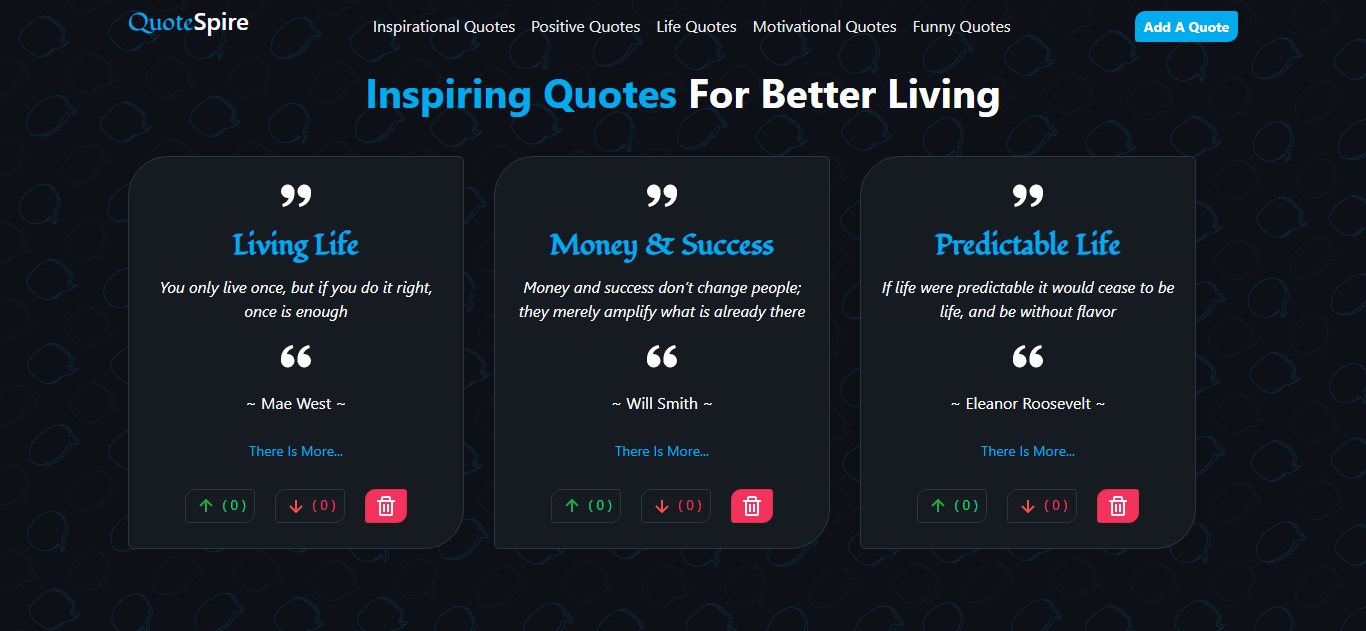
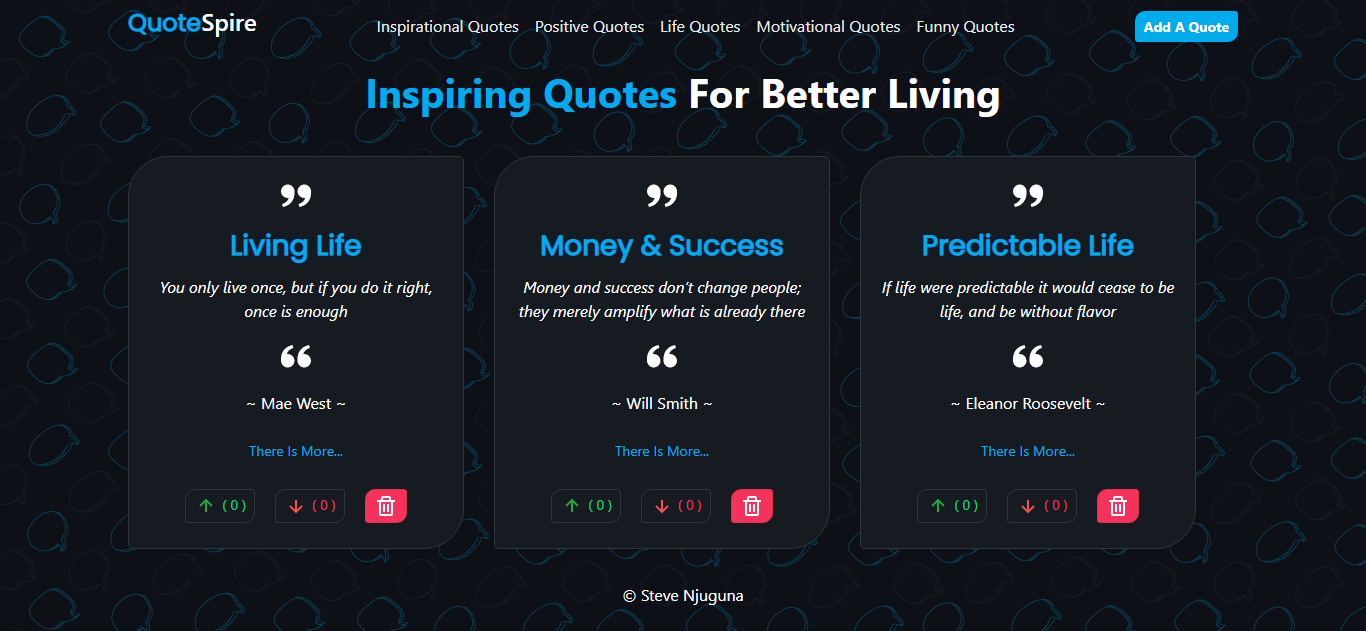
Changed screenshot image

diff --git a/src/index.html b/src/index.html
@@ -6,7 +6,7 @@
   <base href="/">
   <meta name="viewport" content="width=device-width, initial-scale=1">
   <link rel="icon" type="image/x-icon" href="./assets/img/fav.png">
-  <link rel="stylesheet" href="https://fonts.googleapis.com/css?family=Fondamento">
+  <link rel="stylesheet" href="https://fonts.googleapis.com/css?family=Poppins">
   <link rel="stylesheet" href="https://cdn.jsdelivr.net/npm/bootstrap@4.6.1/dist/css/bootstrap.min.css" integrity="sha384-zCbKRCUGaJDkqS1kPbPd7TveP5iyJE0EjAuZQTgFLD2ylzuqKfdKlfG/eSrtxUkn" crossorigin="anonymous">
 </head>
 <body>

diff --git a/src/app/components/quotes/quotes.component.html b/src/app/components/quotes/quotes.component.html
@@ -1,7 +1,7 @@
 <div class="container-fluid">
     <nav class="navbar navbar-expand-lg navbar-dark fixed-top">
         <div class="container">
-            <b><h4 class="logo"><span class="logo-colour">Quote</span>Spire</h4></b>
+            <h4 class="logo"><span class="logo-colour"><b>Quote</b></span>Spire</h4>
             <button class="navbar-toggler" type="button" data-toggle="collapse" data-target="#navbarNavDropdown">
                 <span class="navbar-toggler-icon"></span>
             </button>

diff --git a/src/styles.css b/src/styles.css
@@ -28,7 +28,7 @@ a:hover{
 
 .logo-colour{
     color: #00acee;
-    font-family: 'Fondamento', Arial, sans-serif;
+    font-family: 'Poppins', Arial, sans-serif;
 }
 
 .hero-colour{
@@ -63,7 +63,7 @@ a:hover{
 
 .card-title{
     color: #00acee;
-    font-family: 'Fondamento', Arial, sans-serif;
+    font-family: 'Poppins', Arial, sans-serif;
 }
 
 .footer {
